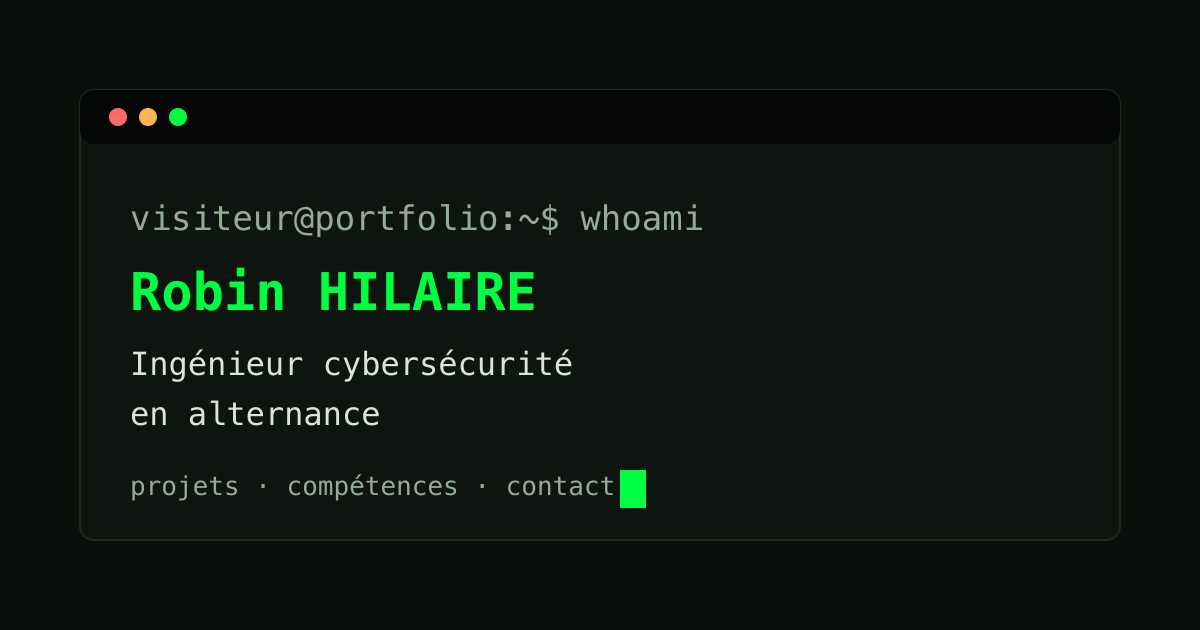
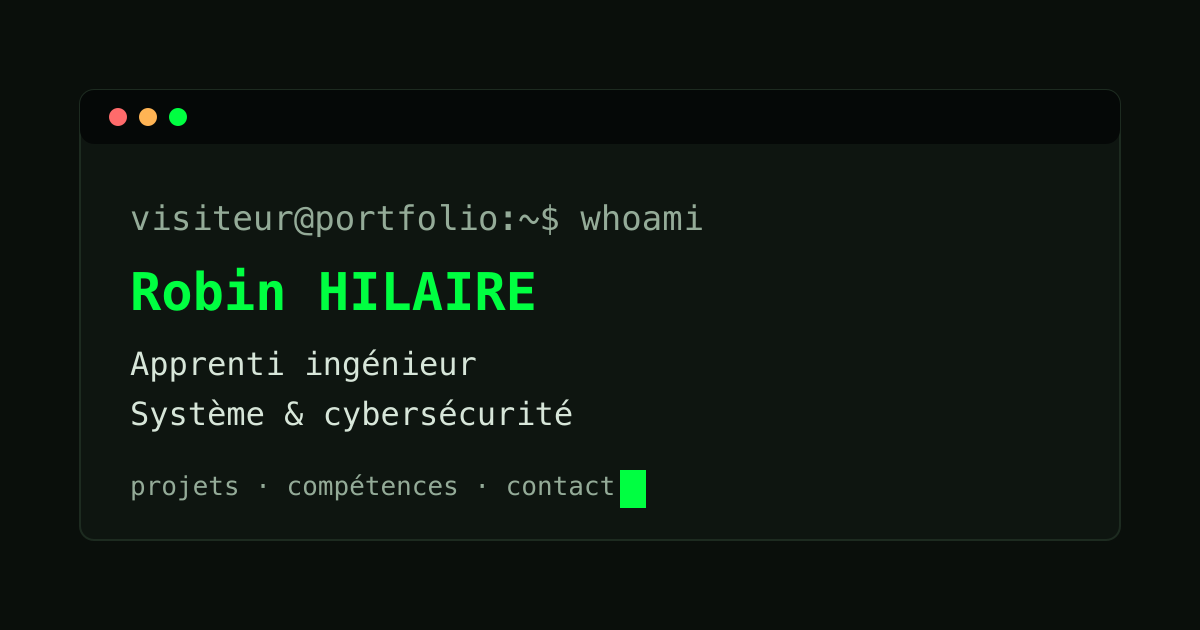
Align the profile on LinkedIn, which is more current than the CV

Changed region(s): [[0.0925, 0.6333, 0.4933, 0.6937], [0.0925, 0.5429, 0.4933, 0.6032]]

diff --git a/server/plugins/seed.ts b/server/plugins/seed.ts
@@ -62,12 +62,13 @@ async function seedContent() {
     data: {
       id: 1,
       fullName: 'Robin HILAIRE',
-      title: 'Ingénieur cybersécurité en alternance',
+      title: 'Apprenti ingénieur en administration système et cybersécurité',
       intro:
-        "Je construis des applications web de bout en bout, du schéma de base de données au reverse proxy qui les sert, "
-        + "et j'héberge la plupart moi-même. Ce qui m'intéresse dans la cybersécurité, c'est le concret : durcir ce qu'on "
-        + "vient d'écrire, comprendre par où ça casse, garder un déploiement reproductible. Diplômé d'un BUT Informatique, "
-        + "je poursuis en école d'ingénieur en alternance, majeure cybersécurité.",
+        "En alternance chez OPALE informatique, sur l'administration système et réseau d'une infrastructure "
+        + "d'imagerie médicale, et en cycle ingénieur à l'EPITA, majeure cybersécurité et administration système. "
+        + "Je construis aussi des applications web de bout en bout, du schéma de base de données au reverse proxy "
+        + "qui les sert, et j'héberge la plupart moi-même. Ce qui m'intéresse dans la sécurité, c'est le concret : "
+        + "durcir ce qu'on vient d'écrire, comprendre par où ça casse, garder un déploiement reproductible.",
       email: 'hilairerob84@gmail.com',
       linkedin: 'https://www.linkedin.com/in/hilaire-robin',
       github: 'https://github.com/RobinHil',
@@ -76,37 +77,38 @@ async function seedContent() {
     },
   })
 
-  // TODO Robin : l'alternance en cours (depuis septembre 2025) manque ici - le nom
-  // de l'entreprise n'était sur aucun des documents fournis. À ajouter depuis /admin,
-  // ou ici avant le premier démarrage, avec order: 0 et un décalage des suivants.
   await prisma.experience.createMany({
     data: [
       {
-        role: 'Alternant, service technique',
-        company: 'Aix-Marseille Université, Arles',
-        period: 'Octobre 2024 - Juillet 2025',
+        role: 'Apprenti ingénieur en administration système et cybersécurité',
+        company: 'OPALE informatique, Paris',
+        period: 'Septembre 2025 - aujourd\'hui',
         description:
-          "Développement d'une solution de RAG destinée aux étudiants de l'université, alimentée par les cours des "
-          + "enseignants : déploiement d'Ollama et LocalAI sous Docker, indexation dans une base de données vectorielle "
-          + 'et chaîne de requêtes aux modèles construite avec LangChain.',
+          "Alternance sur l'infrastructure d'imagerie médicale de l'entreprise : administration des systèmes "
+          + 'et du réseau, et travaux autour de la norme DICOM.',
         order: 0,
       },
       {
-        role: 'Stagiaire, service technique et médical',
-        company: 'OPALE, Paris 12e',
-        period: 'Avril - Juin 2024',
+        role: 'Apprenti développeur logiciel IA',
+        company: 'Aix-Marseille Université, Arles',
+        period: 'Octobre 2024 - Juillet 2025',
         description:
-          "Mise en place et maintenance, matérielle et logicielle, d'un serveur d'imagerie médicale (PACS). "
-          + 'Conteneurisation Docker des services associés (SSO, journalisation), sécurisation de '
-          + "l'infrastructure par un SSO OpenID Connect, et R&D sur l'architecture déployée pour y intégrer "
-          + 'de nouvelles solutions.',
+          "Expérimentation et développement d'un prototype de solution RAG (Retrieval Augmented Generation) "
+          + "donnant aux étudiants de l'université un LLM dont les sources d'information sont vérifiées par les "
+          + "enseignants : des réponses fiables, et une autre manière de consommer les cours. Déploiement d'Ollama "
+          + 'et LocalAI sous Docker, indexation dans une base de données vectorielle, chaîne de requêtes aux modèles '
+          + 'construite avec LangChain.',
         order: 1,
       },
       {
-        role: 'Vacataire, cuisine centrale',
-        company: 'Mairie de Sorgues',
-        period: 'Août 2022 et 2023',
-        description: 'Renfort estival en cuisine centrale municipale, sur deux saisons.',
+        role: 'Stagiaire en administration système',
+        company: 'OPALE informatique, Paris',
+        period: 'Avril - Juin 2024',
+        description:
+          "Mise en place et maintenance, matérielle et logicielle, d'un serveur d'imagerie médicale (PACS, norme "
+          + 'DICOM). Conteneurisation Docker des services associés (SSO, journalisation), sécurisation de '
+          + "l'infrastructure par un SSO OpenID Connect, et R&D sur l'architecture déployée pour y intégrer de "
+          + 'nouvelles solutions.',
         order: 2,
       },
     ],
@@ -115,16 +117,16 @@ async function seedContent() {
   await prisma.education.createMany({
     data: [
       {
-        title: "Diplôme d'ingénieur en informatique, majeure cybersécurité",
-        institution: 'EPITA',
-        period: '2025 - 2028 (en cours)',
-        description: 'Cycle ingénieur en alternance, spécialisation cybersécurité.',
+        title: "Diplôme d'ingénieur en informatique, cybersécurité et administration système",
+        institution: "EPITA, École d'ingénieurs en informatique",
+        period: 'Septembre 2025 - Août 2028 (en cours)',
+        description: "Cycle ingénieur en alternance, fin d'études prévue en 2028.",
         order: 0,
       },
       {
-        title: 'BUT Informatique',
-        institution: "IUT d'Arles, Aix-Marseille Université",
-        period: '2022 - 2025',
+        title: 'BUT Informatique, développement full-stack et administration système',
+        institution: "IUT d'Aix-Marseille, campus d'Arles",
+        period: 'Septembre 2022 - Juin 2025',
         description: "Parcours « réalisation d'applications : conception, développement, validation ».",
         order: 1,
       },
@@ -134,6 +136,22 @@ async function seedContent() {
         period: '2022',
         description: 'Spécialités mathématiques et informatique, option européenne anglais.',
         order: 2,
+      },
+      // Certifications : le profil LinkedIn en annonce 8, seules ces deux-ci
+      // étaient lisibles dans la page fournie. Les six autres restent à ajouter.
+      {
+        title: 'Fortinet NSE 4 Certified in FortiOS',
+        institution: 'Fortinet',
+        period: 'Juillet 2026 - Juillet 2028',
+        description: 'Certification pare-feu FortiGate : politiques de filtrage, VPN, inspection du trafic.',
+        order: 3,
+      },
+      {
+        title: 'Fortinet NSE 3 Certified in Cybersecurity',
+        institution: 'Fortinet',
+        period: 'Février 2026 - Février 2028',
+        description: null,
+        order: 4,
       },
     ],
   })
@@ -148,23 +166,25 @@ async function seedContent() {
       { name: 'PHP', type: 'hard', category: 'Langages', order: 4 },
       { name: 'SQL', type: 'hard', category: 'Langages', order: 5 },
       { name: 'Bash', type: 'hard', category: 'Langages', order: 6 },
-      // Hard skills - Développement web
-      { name: 'Vue, Nuxt', type: 'hard', category: 'Développement web', order: 0 },
-      { name: 'React, Next.js', type: 'hard', category: 'Développement web', order: 1 },
-      { name: 'Angular, Ionic', type: 'hard', category: 'Développement web', order: 2 },
-      { name: 'Node.js, Express', type: 'hard', category: 'Développement web', order: 3 },
-      { name: 'Tailwind CSS, Sass', type: 'hard', category: 'Développement web', order: 4 },
-      { name: 'Three.js, WebGL', type: 'hard', category: 'Développement web', order: 5 },
-      { name: 'Prisma', type: 'hard', category: 'Développement web', order: 6 },
-      { name: 'PostgreSQL, MySQL, SQLite', type: 'hard', category: 'Développement web', order: 7 },
+      // Hard skills - Développement
+      { name: 'Vue, Nuxt', type: 'hard', category: 'Développement', order: 0 },
+      { name: 'React, Next.js', type: 'hard', category: 'Développement', order: 1 },
+      { name: 'Angular, Ionic', type: 'hard', category: 'Développement', order: 2 },
+      { name: 'Node.js, Express', type: 'hard', category: 'Développement', order: 3 },
+      { name: 'Tailwind CSS, Sass', type: 'hard', category: 'Développement', order: 4 },
+      { name: 'Three.js, WebGL', type: 'hard', category: 'Développement', order: 5 },
+      { name: 'Qt, PyQt', type: 'hard', category: 'Développement', order: 6 },
+      { name: 'Prisma', type: 'hard', category: 'Développement', order: 7 },
+      { name: 'PostgreSQL, MySQL, SQLite', type: 'hard', category: 'Développement', order: 8 },
+      { name: 'Vite, Webpack', type: 'hard', category: 'Développement', order: 9 },
       // Hard skills - Systèmes et réseau
-      { name: 'Linux (Debian, Ubuntu)', type: 'hard', category: 'Systèmes et réseau', order: 0 },
-      { name: 'Docker et Compose', type: 'hard', category: 'Systèmes et réseau', order: 1 },
-      { name: 'nginx, Caddy', type: 'hard', category: 'Systèmes et réseau', order: 2 },
-      { name: 'Administration de VPS', type: 'hard', category: 'Systèmes et réseau', order: 3 },
-      { name: 'Git, intégration continue', type: 'hard', category: 'Systèmes et réseau', order: 4 },
-      { name: 'Vite, Webpack', type: 'hard', category: 'Systèmes et réseau', order: 5 },
-      { name: 'Qt, PyQt', type: 'hard', category: 'Systèmes et réseau', order: 6 },
+      { name: 'Administration système Linux', type: 'hard', category: 'Systèmes et réseau', order: 0 },
+      { name: 'Administration réseau', type: 'hard', category: 'Systèmes et réseau', order: 1 },
+      { name: 'Pare-feux (Fortinet FortiOS)', type: 'hard', category: 'Systèmes et réseau', order: 2 },
+      { name: 'Docker et Compose', type: 'hard', category: 'Systèmes et réseau', order: 3 },
+      { name: 'nginx, Caddy', type: 'hard', category: 'Systèmes et réseau', order: 4 },
+      { name: 'Administration de VPS, auto-hébergement', type: 'hard', category: 'Systèmes et réseau', order: 5 },
+      { name: 'Git, intégration continue', type: 'hard', category: 'Systèmes et réseau', order: 6 },
       // Hard skills - Sécurité
       { name: 'Durcissement applicatif (CSP, CSRF, en-têtes)', type: 'hard', category: 'Sécurité', order: 0 },
       { name: 'Authentification, sessions, hachage', type: 'hard', category: 'Sécurité', order: 1 },

diff --git a/utils/uiText.ts b/utils/uiText.ts
@@ -5,9 +5,9 @@
 export const UI = {
   site: {
     name: 'rh@portfolio',
-    title: 'Robin HILAIRE - Ingénieur cybersécurité en alternance',
+    title: 'Robin HILAIRE - Apprenti ingénieur système et cybersécurité',
     description:
-      'Portfolio de Robin HILAIRE, élève ingénieur en cybersécurité : projets web et sécurité, compétences, parcours et contact.',
+      'Portfolio de Robin HILAIRE, apprenti ingénieur en administration système et cybersécurité : projets, compétences, parcours et contact.',
   },
   nav: {
     home: 'accueil',
@@ -20,16 +20,16 @@ export const UI = {
     mainNavLabel: 'Navigation principale',
   },
   home: {
-    metaTitle: 'Robin HILAIRE - Ingénieur cybersécurité en alternance',
+    metaTitle: 'Robin HILAIRE - Apprenti ingénieur système et cybersécurité',
     metaDescription:
-      'Portfolio interactif façon terminal : mon parcours d\'élève ingénieur en cybersécurité, mes projets web et mes compétences.',
+      'Portfolio interactif façon terminal : mon parcours d\'apprenti ingénieur en administration système et cybersécurité, mes projets et mes compétences.',
     terminalTitle: 'visiteur@portfolio: ~',
     hint: 'Tapez une commande (ex: help) ou utilisez le menu de navigation en haut de page.',
   },
   about: {
     metaTitle: 'À propos - parcours, formation et compétences',
     metaDescription:
-      'Formation, expérience professionnelle, compétences techniques (langages, développement web, systèmes, sécurité), soft skills et langues de Robin HILAIRE.',
+      'Formation, certifications, expérience professionnelle, compétences techniques (langages, développement, systèmes et réseau, sécurité), soft skills et langues de Robin HILAIRE.',
     h1: 'À propos',
     education: 'Formation',
     experience: 'Expérience professionnelle',

diff --git a/pages/admin/competences.vue b/pages/admin/competences.vue
@@ -38,7 +38,7 @@ const fields: CrudField[] = [
     key: 'category',
     label: 'Catégorie',
     type: 'text',
-    placeholder: 'ex: Langages, Développement web, Systèmes et réseau, Sécurité',
+    placeholder: 'ex: Langages, Développement, Systèmes et réseau, Sécurité',
     hint: 'Uniquement pour les compétences techniques - les compétences de même catégorie sont regroupées, avec une icône de catégorie automatique.',
     showIf: form => form.type === 'hard',
   },
